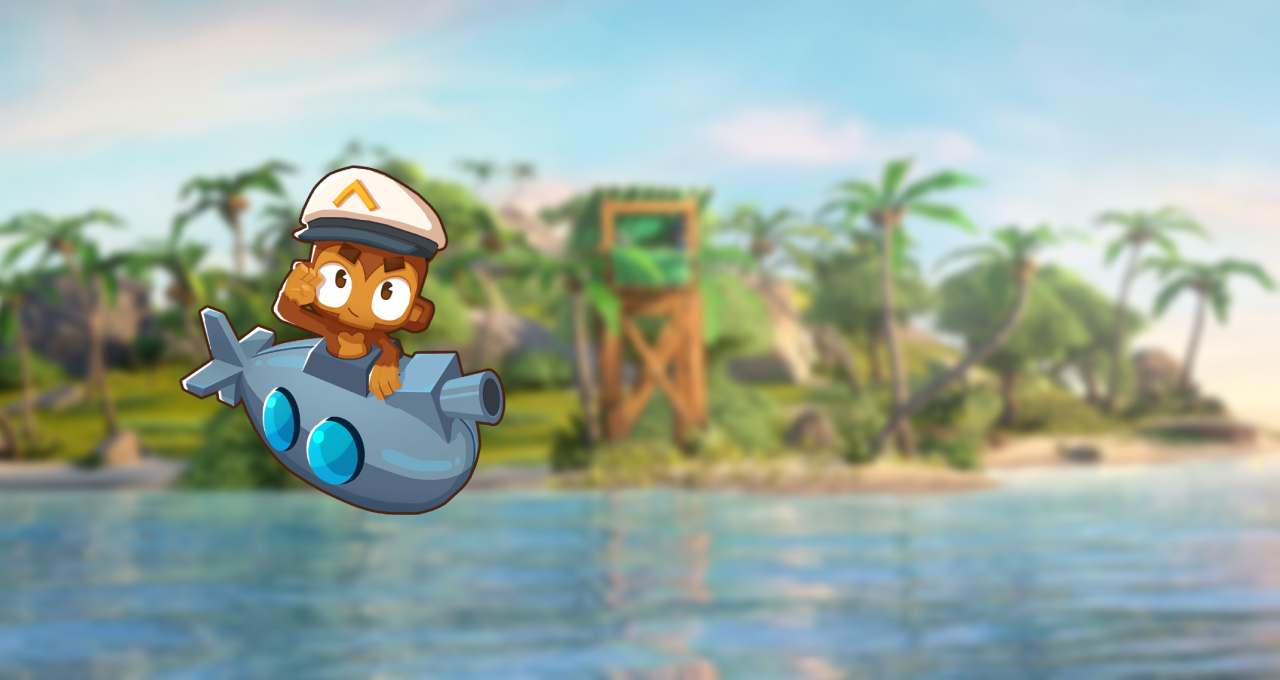
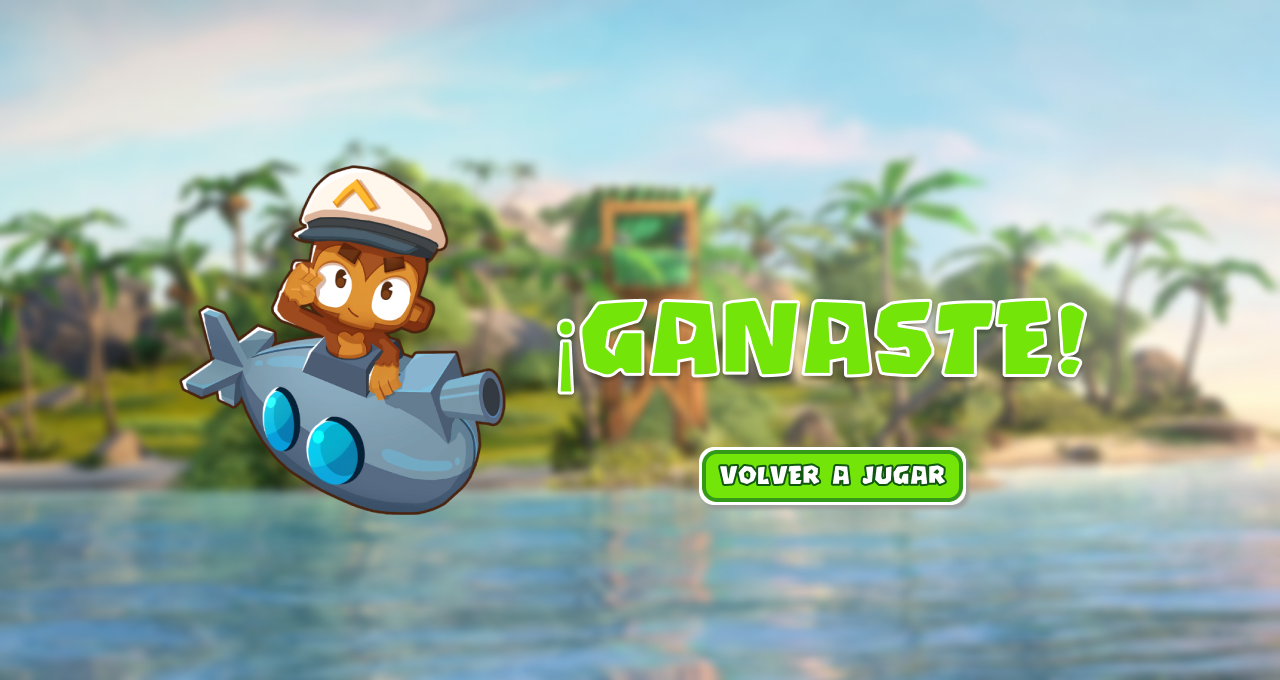
Volver a jugar
Se agregó botón de jugar de nuevo

Changed region(s): [[0.4375, 0.4324, 0.875, 0.5868], [0.5312, 0.6485, 0.7812, 0.7721]]

diff --git a/cliente/vista-cliente/src/main/java/org/itson/edu/balloonblitz/vista/PerderPanel.java b/cliente/vista-cliente/src/main/java/org/itson/edu/balloonblitz/vista/PerderPanel.java
@@ -37,19 +37,8 @@ public class PerderPanel extends javax.swing.JPanel {
     public PerderPanel(FramePrincipal framePrincipal) {
         this.framePrincipal = framePrincipal;
         initComponents();
-        try {
-            setFuentes();
-        } catch (FontFormatException | IOException e) {
-            logger.log(Level.SEVERE, "Error al cargar fuentes: ", e);
-        }
         this.musicPlayer = new MusicPlayer("/audio/sound-effects/lost.wav");
         this.musicPlayer.playOnce();
-    }
-
-    private void setFuentes() throws FontFormatException, IOException {
-        lblMensaje.setFont(framePrincipal.cargarFuente("/fonts/oetztype/OETZTYPE.TTF", 40.0F));
-
-        addTextBorder(lblMensaje);
     }
 
     // Método para añadir borde al texto en JLabel
@@ -96,14 +85,21 @@ public class PerderPanel extends javax.swing.JPanel {
     private void initComponents() {
 
         jPanel1 = new javax.swing.JPanel();
-        lblMensaje = new javax.swing.JLabel();
+        btnJugar = new javax.swing.JButton();
         lblFondo = new javax.swing.JLabel();
 
         jPanel1.setBackground(new java.awt.Color(255, 255, 255));
         jPanel1.setLayout(new org.netbeans.lib.awtextra.AbsoluteLayout());
 
-        lblMensaje.setText("PERDISTE!");
-        jPanel1.add(lblMensaje, new org.netbeans.lib.awtextra.AbsoluteConstraints(680, 330, -1, -1));
+        btnJugar.setBorder(null);
+        btnJugar.setBorderPainted(false);
+        btnJugar.setContentAreaFilled(false);
+        btnJugar.addActionListener(new java.awt.event.ActionListener() {
+            public void actionPerformed(java.awt.event.ActionEvent evt) {
+                btnJugarActionPerformed(evt);
+            }
+        });
+        jPanel1.add(btnJugar, new org.netbeans.lib.awtextra.AbsoluteConstraints(649, 447, 267, 58));
 
         lblFondo.setIcon(new javax.swing.ImageIcon(getClass().getResource("/images/panels/perdiste.png"))); // NOI18N
         jPanel1.add(lblFondo, new org.netbeans.lib.awtextra.AbsoluteConstraints(0, 0, -1, -1));
@@ -120,10 +116,14 @@ public class PerderPanel extends javax.swing.JPanel {
         );
     }// </editor-fold>//GEN-END:initComponents
 
+    private void btnJugarActionPerformed(java.awt.event.ActionEvent evt) {//GEN-FIRST:event_btnJugarActionPerformed
+        framePrincipal.cambiarPanelPersonalizar();
+    }//GEN-LAST:event_btnJugarActionPerformed
+
 
     // Variables declaration - do not modify//GEN-BEGIN:variables
+    private javax.swing.JButton btnJugar;
     private javax.swing.JPanel jPanel1;
     private javax.swing.JLabel lblFondo;
-    private javax.swing.JLabel lblMensaje;
     // End of variables declaration//GEN-END:variables
 }

diff --git a/cliente/vista-cliente/src/main/java/org/itson/edu/balloonblitz/vista/GanarPanel.java b/cliente/vista-cliente/src/main/java/org/itson/edu/balloonblitz/vista/GanarPanel.java
@@ -37,19 +37,8 @@ public class GanarPanel extends javax.swing.JPanel {
     public GanarPanel(FramePrincipal framePrincipal) {
         this.framePrincipal = framePrincipal;
         initComponents();
-        try {
-            setFuentes();
-        } catch (FontFormatException | IOException e) {
-            logger.log(Level.SEVERE, "Error al cargar fuentes: ", e);
-        }
         this.musicPlayer = new MusicPlayer("/audio/sound-effects/win.wav");
         this.musicPlayer.playOnce();
-    }
-
-    private void setFuentes() throws FontFormatException, IOException {
-        lblMensaje.setFont(framePrincipal.cargarFuente("/fonts/oetztype/OETZTYPE.TTF", 40.0F));
-
-        addTextBorder(lblMensaje);
     }
 
     // Método para añadir borde al texto en JLabel
@@ -96,14 +85,21 @@ public class GanarPanel extends javax.swing.JPanel {
     private void initComponents() {
 
         jPanel1 = new javax.swing.JPanel();
-        lblMensaje = new javax.swing.JLabel();
+        btnJugar = new javax.swing.JButton();
         lblFondo = new javax.swing.JLabel();
 
         jPanel1.setBackground(new java.awt.Color(255, 255, 255));
         jPanel1.setLayout(new org.netbeans.lib.awtextra.AbsoluteLayout());
 
-        lblMensaje.setText("GANASTE!");
-        jPanel1.add(lblMensaje, new org.netbeans.lib.awtextra.AbsoluteConstraints(670, 350, -1, -1));
+        btnJugar.setBorder(null);
+        btnJugar.setBorderPainted(false);
+        btnJugar.setContentAreaFilled(false);
+        btnJugar.addActionListener(new java.awt.event.ActionListener() {
+            public void actionPerformed(java.awt.event.ActionEvent evt) {
+                btnJugarActionPerformed(evt);
+            }
+        });
+        jPanel1.add(btnJugar, new org.netbeans.lib.awtextra.AbsoluteConstraints(699, 447, 267, 58));
 
         lblFondo.setIcon(new javax.swing.ImageIcon(getClass().getResource("/images/panels/ganaste.png"))); // NOI18N
         jPanel1.add(lblFondo, new org.netbeans.lib.awtextra.AbsoluteConstraints(0, 0, -1, -1));
@@ -120,10 +116,14 @@ public class GanarPanel extends javax.swing.JPanel {
         );
     }// </editor-fold>//GEN-END:initComponents
 
+    private void btnJugarActionPerformed(java.awt.event.ActionEvent evt) {//GEN-FIRST:event_btnJugarActionPerformed
+        framePrincipal.cambiarPanelPersonalizar();
+    }//GEN-LAST:event_btnJugarActionPerformed
+
 
     // Variables declaration - do not modify//GEN-BEGIN:variables
+    private javax.swing.JButton btnJugar;
     private javax.swing.JPanel jPanel1;
     private javax.swing.JLabel lblFondo;
-    private javax.swing.JLabel lblMensaje;
     // End of variables declaration//GEN-END:variables
 }
